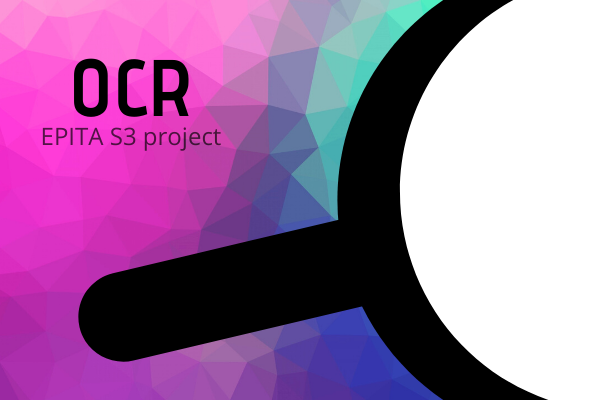
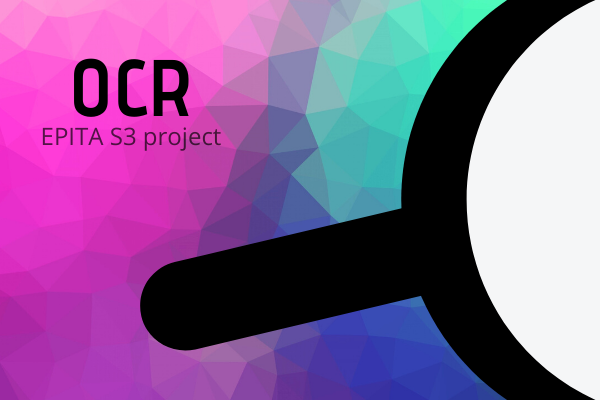
Add doc button, new wallpaper and new menu item

Changed region(s): [[0.27, 0.0, 0.99, 1.0], [0.12, 0.66, 0.33, 0.93], [0.33, 0.78, 0.57, 0.87]]

diff --git a/src/UI/callback.h b/src/UI/callback.h
@@ -11,7 +11,7 @@
 
 /*
  * Callback function for OCR button
- * GtkWidget is the widget from the callback signal
+ * GtkWidget is the widget from the callback signal.
  * gpointer is a widget the function can need.
  * return void
  */
@@ -19,7 +19,7 @@ void cb_ocr (GtkWidget *, gpointer);
 
 /*
  * Callback function for Edit text button
- * GtkWidget is the widget from the callback signal
+ * GtkWidget is the widget from the callback signal.
  * gpointer is a widget the function can need.
  * return void
  */
@@ -27,7 +27,7 @@ void cb_edit (GtkWidget *, gpointer);
 
 /*
  * Callback function for New file button
- * GtkWidget is the widget from the callback signal
+ * GtkWidget is the widget from the callback signal.
  * gpointer is a widget the function can need.
  * return void
  */
@@ -43,7 +43,7 @@ void cb_open (GtkWidget *, gpointer);
 
 /*
  * Callback function for Close button
- * GtkWidget is the widget from the callback signal
+ * GtkWidget is the widget from the callback signal.
  * gpointer is a widget the function can need.
  * return void
  */
@@ -51,7 +51,7 @@ void cb_close (GtkWidget *, gpointer);
 
 /*
  * Callback function for Quit button
- * GtkWidget is the widget from the callback signal
+ * GtkWidget is the widget from the callback signal.
  * gpointer is a widget the function can need.
  * return void
  */
@@ -59,7 +59,7 @@ void cb_quit (GtkWidget *, gpointer);
 
 /*
  * Callback function used when a file is modify
- * GtkWidget is the widget from the callback signal
+ * GtkWidget is the widget from the callback signal.
  * gpointer is a widget the function can need.
  * return void
  */
@@ -67,7 +67,7 @@ void cb_modif (GtkWidget*,gpointer);
 
 /*
  * Callback function for Save button
- * GtkWidget is the widget from the callback signal
+ * GtkWidget is the widget from the callback signal.
  * gpointer is a widget the function can need.
  * return void
  */
@@ -75,12 +75,27 @@ void cb_save (GtkWidget*,gpointer);
 
 /*
  * Callback function for Save As button
- * GtkWidget is the widget from the callback signal
+ * GtkWidget is the widget from the callback signal.
  * gpointer is a widget the function can need.
  * return void
  */
 void cb_saveas (GtkWidget*,gpointer);
 
+/*
+ * Callback function for About button
+ * GtkWidget is the widget from the callback signal.
+ * gpointer is a widget the function can need.
+ * return void
+ */
+
 void cb_about (GtkWidget*,gpointer);
+
+/*
+ * Callback function for Doc button
+ * GtkWidget is the widget from the callback signal.
+ * gpointer is a widget the function can need.
+ * return void
+ */
+void cb_doc (GtkWidget*,gpointer);
 
 #endif

diff --git a/src/UI/menu.c b/src/UI/menu.c
@@ -25,10 +25,12 @@ GtkMenuBar *menu_new (gpointer user_data)
 
 	{
 		GtkWidget *p_menu = NULL;
-		GtkWidget *p_menu_item = NULL;
-
+		GtkWidget *p_help = NULL;
+		GtkWidget *p_menu_item_1 = NULL;
+		GtkWidget *p_menu_item_2 = NULL;
+		
 		p_menu = gtk_menu_new ();
-		p_menu_item = gtk_menu_item_new_with_mnemonic ("_Menu");
+		p_menu_item_1 = gtk_menu_item_new_with_mnemonic ("_Menu");
 		menu_item_new (GTK_MENU (p_menu), "_OCR", G_CALLBACK (cb_ocr), user_data);
 		menu_item_new (GTK_MENU (p_menu), "_New", G_CALLBACK (cb_new), user_data);
 		menu_item_new (GTK_MENU (p_menu), "_Open", G_CALLBACK (cb_open), user_data);
@@ -36,8 +38,16 @@ GtkMenuBar *menu_new (gpointer user_data)
 		menu_item_new (GTK_MENU (p_menu), "Save _as", G_CALLBACK (cb_saveas), user_data);
 		menu_item_new (GTK_MENU (p_menu), "_Close", G_CALLBACK (cb_close), user_data);
 		menu_item_new (GTK_MENU (p_menu), "_Quit", G_CALLBACK (cb_quit), user_data);
-		gtk_menu_item_set_submenu (GTK_MENU_ITEM (p_menu_item), p_menu);
-		gtk_menu_shell_append (GTK_MENU_SHELL (p_menu_bar), p_menu_item);
+		gtk_menu_item_set_submenu (GTK_MENU_ITEM (p_menu_item_1), p_menu);
+		gtk_menu_shell_append (GTK_MENU_SHELL (p_menu_bar), p_menu_item_1);
+	
+		p_help = gtk_menu_new ();
+		p_menu_item_2 = gtk_menu_item_new_with_mnemonic("_Help");
+		menu_item_new (GTK_MENU(p_help), "_Readme",G_CALLBACK(cb_about),user_data);
+		menu_item_new (GTK_MENU(p_help), "_Doc", G_CALLBACK(cb_doc),user_data);
+		menu_item_new (GTK_MENU(p_help), "_About us", G_CALLBACK(cb_about),user_data);
+		gtk_menu_item_set_submenu(GTK_MENU_ITEM(p_menu_item_2),p_help);
+		gtk_menu_shell_append(GTK_MENU_SHELL (p_menu_bar), p_menu_item_2);
 	}
 	return GTK_MENU_BAR (p_menu_bar);
 }

diff --git a/src/UI/callback.c b/src/UI/callback.c
@@ -80,7 +80,6 @@ void cb_ocr(GtkWidget* s_widget,gpointer user_data)
 		gtk_widget_hide(docs.s_start_window);
 
 		open_ocr (file_name,user_data);
-		print_info("OCR Complete");
 
 		g_free (file_name);
 		file_name = NULL;
@@ -405,7 +404,7 @@ void cb_about (GtkWidget *p_widget, gpointer user_data)
 	GtkWidget *p_about_dialog = NULL;
 
 	p_about_dialog = gtk_about_dialog_new ();
-	gtk_about_dialog_set_version (GTK_ABOUT_DIALOG (p_about_dialog), "1.0");
+	gtk_about_dialog_set_version (GTK_ABOUT_DIALOG (p_about_dialog), "4.42.42.0");
 	gtk_about_dialog_set_program_name (GTK_ABOUT_DIALOG (p_about_dialog), 
 								"Optical Character Recognition");
 
@@ -419,6 +418,7 @@ void cb_about (GtkWidget *p_widget, gpointer user_data)
 
 	p_logo = gdk_pixbuf_new_from_file ("./image_data/UI/logo_epita.jpg", NULL);
 	gtk_about_dialog_set_logo (GTK_ABOUT_DIALOG (p_about_dialog), p_logo);
+
 	switch(gtk_dialog_run (GTK_DIALOG (p_about_dialog)))
 	{
 		case GTK_RESPONSE_DELETE_EVENT:
@@ -430,6 +430,25 @@ void cb_about (GtkWidget *p_widget, gpointer user_data)
   /* Unused Parameter */
   (void)p_widget;
   (void)user_data;
+}
+
+/**
+ * \fn cb_doc(GtkWidget *p_widget, gpointer user_data)
+ * \brief Callback function called when pressing Doc button.
+ * Call system command "make doc".
+ * \param *p_widget : Widget from the callback signal. (Unused parameter)
+ * \param user_data : Text view widget. (Unused parameter)
+ * \return void
+ */
+
+void cb_doc(GtkWidget *p_widget,gpointer user_data)
+{
+	const char* command = "make doc";
+	system(command);
+
+	/* Unused parameter */
+	(void) p_widget;
+	(void) user_data;
 }
 
 /**

diff --git a/testUI.c b/testUI.c
@@ -27,7 +27,9 @@ int main(int argc,char **argv)
 	/* Create start window */
 	s_window = gtk_window_new(GTK_WINDOW_TOPLEVEL);
 	gtk_window_set_title(GTK_WINDOW(s_window), "OCR");
+	gtk_widget_set_size_request(s_window,300,300);
 	gtk_window_resize (GTK_WINDOW(s_window),300,300);
+	gtk_window_set_resizable(GTK_WINDOW(s_window),0);
 
 	/* Create main window */
 	p_window = gtk_window_new(GTK_WINDOW_TOPLEVEL);
@@ -80,7 +82,7 @@ int main(int argc,char **argv)
 	GtkWidget *image = NULL;
 	
 	srand(time(0));
-	float nb = rand()%2;
+	float nb = rand()%3;
 	char image_path[25];
 	sprintf(image_path, "./image_data/UI/%i.png",(int)nb);
     
@@ -98,7 +100,7 @@ int main(int argc,char **argv)
 		GtkWidget *s_button = NULL;
 		GtkWidget *image = NULL;
 		image = gtk_image_new_from_file("./image_data/UI/icon/png/ocr.png");
-		s_button = gtk_button_new_with_label("Launch OCR");
+		s_button = gtk_button_new_with_label("		Launch OCR		");
 		gtk_button_set_always_show_image (GTK_BUTTON(s_button),TRUE);
 		gtk_button_set_image(GTK_BUTTON(s_button),image);
 		gtk_button_set_image_position (GTK_BUTTON(s_button),GTK_POS_TOP);
@@ -144,3 +146,5 @@ int main(int argc,char **argv)
 
 	return EXIT_SUCCESS;
 }
+
+
